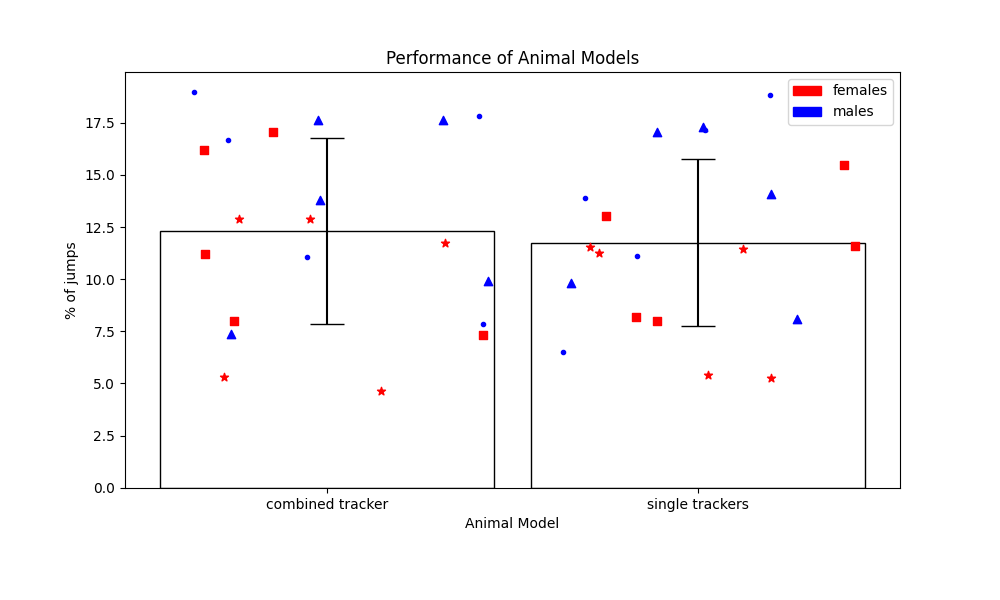
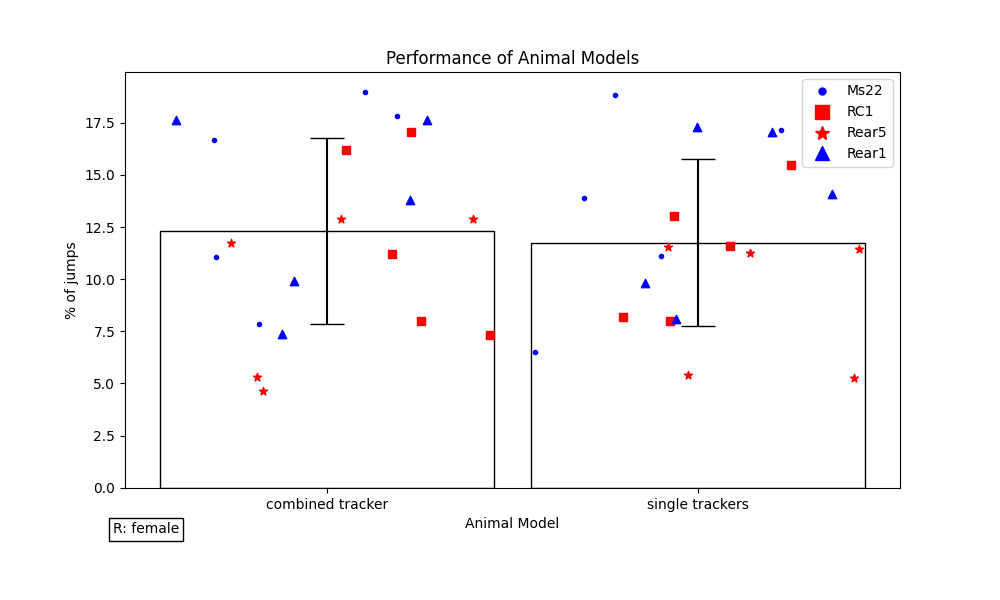
DLC update

diff --git a/DeepLabCut/DLC_jump_analysis/all_trackers/jump_analysis.py b/DeepLabCut/DLC_jump_analysis/all_trackers/jump_analysis.py
@@ -1,6 +1,7 @@
 import csv
 import pandas as pd
 import matplotlib.pyplot as plt
+import matplotlib.lines as mlines
 from pathlib import Path
 import numpy as np
 import os
@@ -29,21 +30,22 @@ def main(full_path, relative_path, fname):
         dataframes_list.append(nose_values1)
 
     combined_new_df_values = dataframes_list[0]
-    Ms21_new_df_values = dataframes_list[1]
-    Rear1_new_df_values = dataframes_list[2]
-    single_trackers_df = dataframes_list[3]
-    #Order of single trackers: Ms21, Ms22, RC1, Rear5
-    #RC1_new_df_values = dataframes_list[3]
-    #AVG THE VALUES FROM 4 RATS
+    #Ms22_new_df_values = dataframes_list[1]
+    #RC1_new_df_values = dataframes_list[2]
+    #Rear5_new_df_values = dataframes_list[3]
+    single_trackers_df = dataframes_list[2]
+    #Order of single trackers: Ms22, RC1, Rear5
+
+    #AVG THE VALUES FROM 3 SINGLE TRACKERS
+    #avg_new_df_values = 
   
 
     w = .9 # bar width
-    #x = [1, 2, 3] # x-coordinates of your bars
     x = [1, 2]
-    #colors = ['blue', 'red', 'green']  # corresponding colors
     colors = ['red','blue']
-    #y = Ms22_RC1_Rear5_new_df_values, Ms21_new_df_values, combined_new_df_values
-    y = combined_new_df_values, single_trackers_df
+    #y = Ms22_new_df_values, RC1_new_df_values, Rear5_new_df_values
+    #y = single_trackers_df, combined_new_df_values, avg_new_df_values
+    y = single_trackers_df, combined_new_df_values
 
     fig, ax = plt.subplots()
     ax.bar(x,
@@ -51,12 +53,13 @@ def main(full_path, relative_path, fname):
            yerr=[np.std(yi) for yi in y],    # error bars
            capsize=12, # error bar cap width in points
            width=w,    # bar width
-           #tick_label=["Rear5/Ms22", "Ms21", "combined"],#"RC1"],
-           tick_label=['combined tracker', 'single trackers'],
+           #tick_label=["Rear5/Ms22", "Ms22", "combined"],#"RC1"],
+           tick_label=['single trackers', 'combined tracker'],
            color=(0,0,0,0),  # face color transparent
            edgecolor=['black'],
          #ecolor=colors,    # error bar colors; setting this raises an error for whatever reason.
          )
+
 
     for i in range(len(x)):
         #distribute scatter randomly across whole width of bar
@@ -65,25 +68,45 @@ def main(full_path, relative_path, fname):
         ax.scatter(x[i] + np.random.random(a[0:5].size) * w - w / 2, a[0:5], color=colors[1], marker='.') #circle marker = Ms22
         ax.scatter(x[i] + np.random.random(a[5:10].size) * w - w / 2, a[5:10], color=colors[0], marker = "s") #square marker = RC1
         ax.scatter(x[i] + np.random.random(a[10:15].size) * w - w / 2, a[10:15], color=colors[0], marker = "*") #star marker = Rear5
-        ax.scatter(x[i] + np.random.random(a[15:20].size) * w - w / 2, a[15:20], color=colors[1], marker = "^") #triangle marker = Rear1
 
     box = ax.get_position()
     ax.set_position([box.x0, box.y0 + box.height * 0.1,
                      box.width, box.height * 0.9])
+    
 
     # # Put a legend below current axis
-    legend_colors = {'females':'red', 'males':'blue'} 
-    labels = list(legend_colors.keys()) 
-    handles = [plt.Rectangle((0,0),1,1, color=legend_colors[label]) for label in labels]
+    #legend_colors = {'females':'red', 'males':'blue'}
+    #labels = list(legend_colors.keys()) 
+    #handles = [plt.Rectangle((0,0),1,1, color=legend_colors[labels]) for label in labels]
+
+   
     #ax.legend(loc='upper center', bbox_to_anchor=(0.5, -0.15),
     #        fancybox=False, shadow=True, ncol=5)
-    ax.legend(handles, labels)
 
-    
+    Ms22 = mlines.Line2D([], [], color='blue', marker='.', linestyle='None', markersize=10, label='Ms22')
+    RC1 = mlines.Line2D([], [], color='red', marker='s', linestyle='None', markersize=10, label='RC1')
+    Rear5 = mlines.Line2D([], [], color='red', marker='*', linestyle='None', markersize=10, label='Rear5')
+    Rear1 = mlines.Line2D([], [], color='blue', marker='^', linestyle='None', markersize=10, label='Rear1')
+    #female = mlines.Line2D([], [], color='red', marker='^', linestyle='None', markersize=10, label='Rear1')
+    #male = mlines.Line2D([], [], color='blue', marker='^', linestyle='None', markersize=10, label='Rear1')
+    #female  = mlines.Line2D([], [], marker='hello', linestyle='None', label='female')
+
+    #ax.legend(handles=[Ms22, RC1, Rear5, Rear1, plt.Rectangle((0,0),1,1, color='red'), plt.Rectangle((0,0),1,1, color='blue')])
+    legend = ax.legend(handles=[Ms22, RC1, Rear5, Rear1], (handletextpad=-2.0, handlelength=0))
+
+    # ax.annotate('R: female',xy=(15, -35), xycoords='axes points',
+    #         size=10, ha='center', va='bottom',
+    #         bbox=dict(boxstyle='square', fc='w'))
+
+    color_l = ['red', 'blue']
+    for n, text in enumerate(legend.get_texts):
+        print( n, text)
+        text.set_color( color_l[n] )
+
     plt.title("Performance of Animal Models")
     plt.xlabel("Animal Model")
     plt.ylabel("% of jumps")
-    #plt.legend(['x = x'],bbox_to_anchor =(0.65, 1.25), loc='lower center')
+    #plt.legend(['x = x'],['s'],bbox_to_anchor =(0.65, 1.25), loc='lower center')
 
     os.chdir(current_dir + '/saved_figs')
     figure = plt.gcf()
